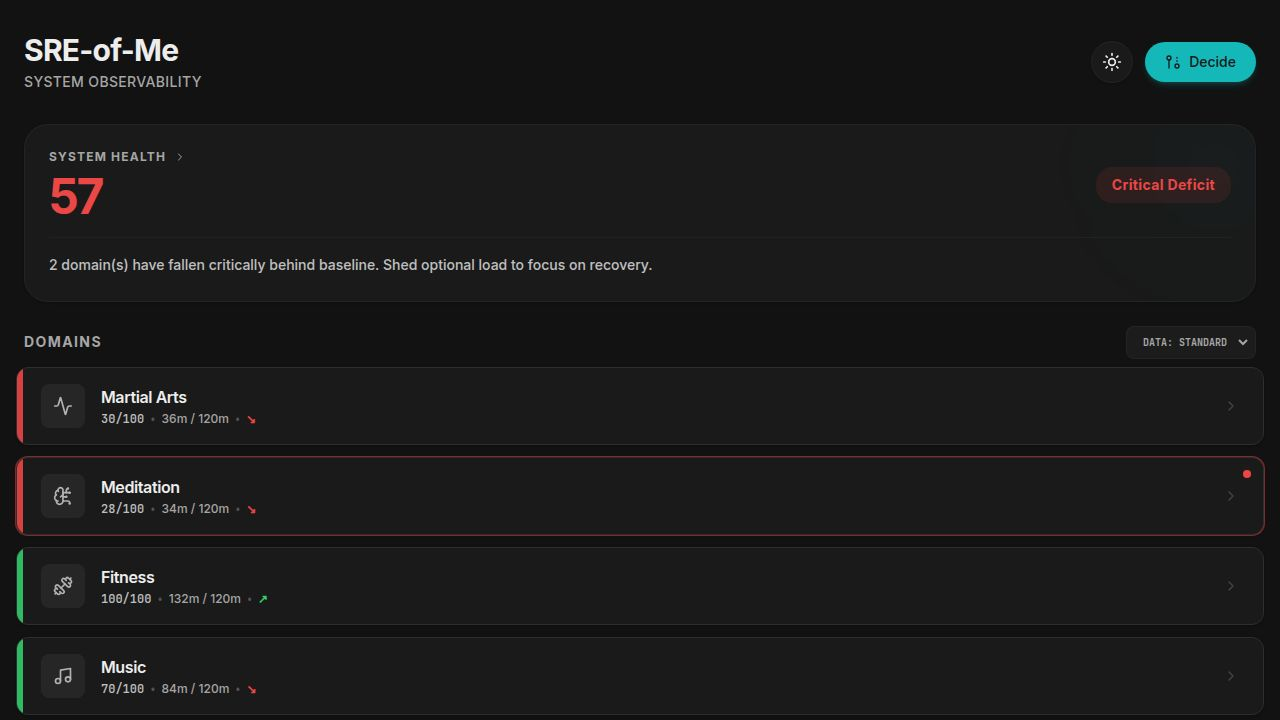
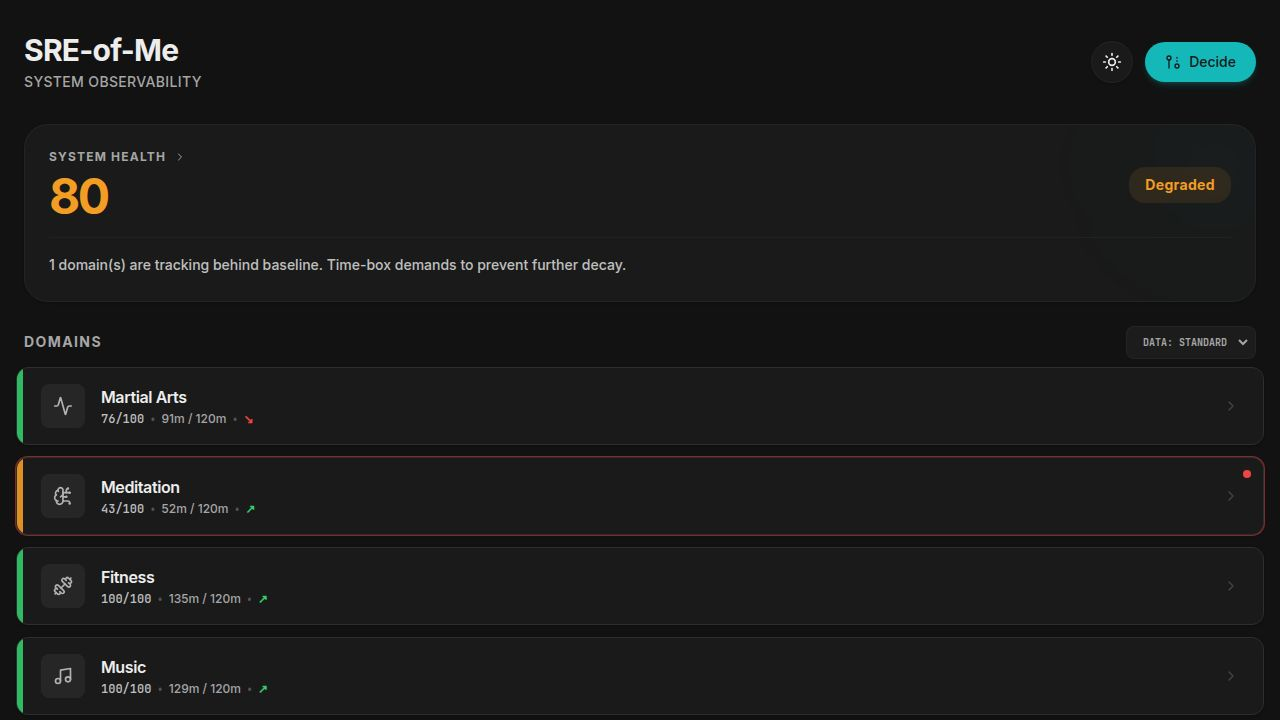
Improve trend accuracy and system health insights
Refine trend calculations to explicitly compare 7-day windows, update System Health insights for better interpretability, and clarify decision rationales based on explicit trend data.

Replit-Commit-Author: Agent
Replit-Commit-Session-Id: db2d2d69-5b4a-407f-9b58-755ca763da57
Replit-Commit-Checkpoint-Type: full_checkpoint
Replit-Commit-Event-Id: d84c865f-bc48-40c1-9299-0024c7ae30cc
Replit-Commit-Screenshot-Url: https://storage.googleapis.com/screenshot-production-us-central1/7237608a-d171-460d-b9b4-6b4247c90b6f/db2d2d69-5b4a-407f-9b58-755ca763da57/s9eWPye
Replit-Helium-Checkpoint-Created: true

diff --git a/client/src/pages/system-health.tsx b/client/src/pages/system-health.tsx
@@ -66,22 +66,24 @@ export default function SystemHealth() {
     
     const insights = [
       {
-        title: "Current Vulnerability",
+        title: "Current Vulnerability & Load",
         desc: weakestDomain.status !== 'healthy' 
-          ? `${formatDomainName(weakestDomain.domain)} is currently ${weakestDomain.status}. This is the primary limiting factor for your overall system capacity.`
-          : `While healthy overall, ${formatDomainName(weakestDomain.domain)} is your relative weak point. Maintain current efforts to prevent slippage.`
+          ? `${formatDomainName(weakestDomain.domain)} is currently ${weakestDomain.status} (${weakestDomain.recentMinutes}m). This is your system's bottleneck. Focus available energy here.`
+          : `System is healthy. ${formatDomainName(weakestDomain.domain)} is your relative weak point but remains above baseline. Maintain current efforts.`
       },
       {
-        title: "Momentum",
+        title: "Momentum & Trajectory",
         desc: trendingDownCount === 0 
-          ? "You have zero domains trending downward compared to last week. Excellent consistency." 
+          ? "All domains are trending flat or positive compared to the previous 7 days. You are successfully building surplus capacity." 
           : trendingDownCount > 2 
-            ? `Warning: ${trendingDownCount} domains are trending down compared to last week. This indicates widespread system fatigue.` 
-            : `${trendingUpCount} domains are trending up, while ${trendingDownCount} are slowing down. Mixed momentum.`
+            ? `Warning: ${trendingDownCount} domains are trending down vs the previous 7 days. Widespread system fatigue reduces your ability to absorb new demands.` 
+            : `${trendingUpCount} domains are trending up, while ${trendingDownCount} are slowing down. Protect domains with downward trajectories.`
       },
       {
-        title: "Strongest Asset",
-        desc: `${formatDomainName(topDomain.domain)} is anchoring the system at ${topDomain.score} health. It provides surplus resilience.`
+        title: "Decision Impact",
+        desc: sysStatus === 'Healthy' 
+          ? "You have the capacity to accept optional (P3) tasks, but preserve enough energy to maintain your current positive momentum."
+          : "You must decline optional demands (P3) and strictly time-box core demands (P2) until your baseline is recovered."
       }
     ];
     
@@ -195,10 +197,10 @@ export default function SystemHealth() {
                     <div className={`px-3 py-1 rounded-full text-[10px] uppercase tracking-widest font-bold ${getStatusColor(d.status)}`}>
                       {d.status}
                     </div>
-                    <div className="flex items-center gap-1 text-xs font-bold text-muted-foreground" title={`${d.recentMinutes}m this week vs ${d.previousWeekMinutes}m last week`}>
-                      {d.trend === 'up' && <span className="text-status-healthy flex items-center"><TrendingUp className="w-3 h-3 mr-1"/> Up</span>}
-                      {d.trend === 'down' && <span className="text-status-critical flex items-center"><TrendingDown className="w-3 h-3 mr-1"/> Down</span>}
-                      {d.trend === 'flat' && <span className="text-foreground/50 flex items-center"><Minus className="w-3 h-3 mr-1"/> Flat</span>}
+                    <div className="flex items-center gap-1 text-[11px] font-bold text-muted-foreground" title={`${d.recentMinutes}m this week vs ${d.previousWeekMinutes}m last week`}>
+                      {d.trend === 'up' && <span className="text-status-healthy flex items-center"><TrendingUp className="w-3 h-3 mr-1"/> {d.recentMinutes}m (vs {d.previousWeekMinutes}m)</span>}
+                      {d.trend === 'down' && <span className="text-status-critical flex items-center"><TrendingDown className="w-3 h-3 mr-1"/> {d.recentMinutes}m (vs {d.previousWeekMinutes}m)</span>}
+                      {d.trend === 'flat' && <span className="text-foreground/50 flex items-center"><Minus className="w-3 h-3 mr-1"/> {d.recentMinutes}m (vs {d.previousWeekMinutes}m)</span>}
                     </div>
                   </div>
                 </div>

diff --git a/client/src/pages/decide.tsx b/client/src/pages/decide.tsx
@@ -39,7 +39,7 @@ export default function Decide() {
         recommendation: 'Accept',
         action: 'Immediate Execution Required',
         state: 'Override',
-        reason: `Priority 1 demands override all system protections. Accept the demand immediately. Note that this will consume capacity and further delay recovery of vulnerable domains like ${weakestDomain ? weakestDomain.replace('-',' ') : 'your weakest areas'}.`,
+        reason: `Priority 1 demands override all system protections. Accept immediately. Note that this consumes capacity and may exacerbate downward trends or delay recovery of vulnerabilities like ${weakestDomain ? weakestDomain.replace('-',' ') : 'your weakest areas'}.`,
         color: 'text-status-critical',
         bg: 'bg-status-critical/10'
       };
@@ -51,7 +51,7 @@ export default function Decide() {
           recommendation: 'Decline / Defer',
           action: `Protect schedule. Recover ${weakestDomain ? weakestDomain.replace('-', ' ') : 'critical domains'}.`,
           state: 'Active Load Shedding',
-          reason: `System is in a protective state. Core maintenance has failed in ${formatDomainsList(criticalDomains)}. A P2 demand introduces unacceptable risk of systemic failure. You must shed this load to prioritize recovery.`,
+          reason: `System is in a protective state. Current 7-day volume has critically failed in ${formatDomainsList(criticalDomains)}. A P2 demand introduces unacceptable risk. You must shed this load to prioritize baseline recovery.`,
           color: 'text-status-degraded',
           bg: 'bg-status-degraded/10'
         };
@@ -71,7 +71,7 @@ export default function Decide() {
           recommendation: 'Accept but Monitor',
           action: 'Execute, but watch energy levels.',
           state: 'Slowing Momentum',
-          reason: `System is technically healthy, but momentum is dropping in ${formatDomainsList(trendingDownDomains)}. You can accept this P2, but be aware that systemic fatigue is building. Avoid making this a recurring commitment.`,
+          reason: `System is technically healthy, but recent 7-day trends are down in ${formatDomainsList(trendingDownDomains)}. You can accept this P2, but systemic fatigue is building. Avoid making this a recurring commitment.`,
           color: 'text-status-healthy',
           bg: 'bg-status-healthy/10'
         };
@@ -103,7 +103,7 @@ export default function Decide() {
         recommendation: 'Decline / Defer',
         action: 'Reject to protect momentum.',
         state: 'Preserving Energy',
-        reason: `While the system is technically healthy, downward trends in ${formatDomainsList(trendingDownDomains)} indicate dropping energy. P3 tasks should be deferred until momentum stabilizes across the board.`,
+        reason: `While the system is technically healthy, 7-day downward trends in ${formatDomainsList(trendingDownDomains)} indicate dropping energy. P3 tasks should be deferred until your momentum stabilizes.`,
         color: 'text-status-degraded',
         bg: 'bg-status-degraded/10'
       };

diff --git a/client/src/pages/domain-detail.tsx b/client/src/pages/domain-detail.tsx
@@ -127,7 +127,10 @@ export default function DomainDetail() {
                   {trend === 'flat' && <><span className="text-blue-500">→</span> Flat</>}
                 </div>
                 <div className="text-xs font-medium text-muted-foreground mt-1">
-                  ({status.recentMinutes}m vs {status.previousWeekMinutes}m)
+                  ({recentMinutes}m vs {status.previousWeekMinutes}m)
+                </div>
+                <div className={`text-[11px] font-bold mt-1 px-2 py-0.5 rounded-md ${recentMinutes > status.previousWeekMinutes ? 'bg-status-healthy/10 text-status-healthy' : recentMinutes < status.previousWeekMinutes ? 'bg-status-critical/10 text-status-critical' : 'bg-blue-500/10 text-blue-500'}`}>
+                  {recentMinutes - status.previousWeekMinutes > 0 ? '+' : ''}{recentMinutes - status.previousWeekMinutes}m Delta
                 </div>
               </div>
             </div>
@@ -135,10 +138,7 @@ export default function DomainDetail() {
           
           <div className="pt-4 border-t border-border/40">
             <p className="text-sm text-muted-foreground leading-relaxed">
-              <strong className="text-foreground">Why this score?</strong> You have logged <strong className="text-foreground">{recentMinutes} minutes</strong> in the past 7 days against a baseline target of <strong className="text-foreground">{targetMinutes} minutes</strong>. 
-              {trend === 'up' ? ` This represents an improvement over the ${status.previousWeekMinutes} minutes logged in the week prior.` : 
-               trend === 'down' ? ` This represents a decline compared to the ${status.previousWeekMinutes} minutes logged in the week prior.` : 
-               ` Your engagement is holding steady compared to the ${status.previousWeekMinutes} minutes logged in the week prior.`}
+              <strong className="text-foreground">Trend Analysis:</strong> You logged <strong className="text-foreground">{recentMinutes}m</strong> in the last 7 days compared to <strong className="text-foreground">{status.previousWeekMinutes}m</strong> in the previous 7 days (a delta of {recentMinutes - status.previousWeekMinutes > 0 ? '+' : ''}{recentMinutes - status.previousWeekMinutes}m). The target is <strong className="text-foreground">{targetMinutes}m/week</strong>.
             </p>
           </div>
         </section>

diff --git a/client/src/store.ts b/client/src/store.ts
@@ -99,8 +99,8 @@ const generateMockSessions = (scenario: 'default' | 'overperforming' | 'degraded
     
     let trend: 'up' | 'down' | 'flat' = 'flat';
     // Compare exact 7-day windows against each other
-    if (recentMinutes > previousWeekMinutes + 15) trend = 'up';
-    else if (recentMinutes < previousWeekMinutes - 15) trend = 'down';
+    if (recentMinutes > previousWeekMinutes) trend = 'up';
+    else if (recentMinutes < previousWeekMinutes) trend = 'down';
     
     let status: 'healthy' | 'degraded' | 'critical' = 'healthy';
     if (score < 40) status = 'critical';
